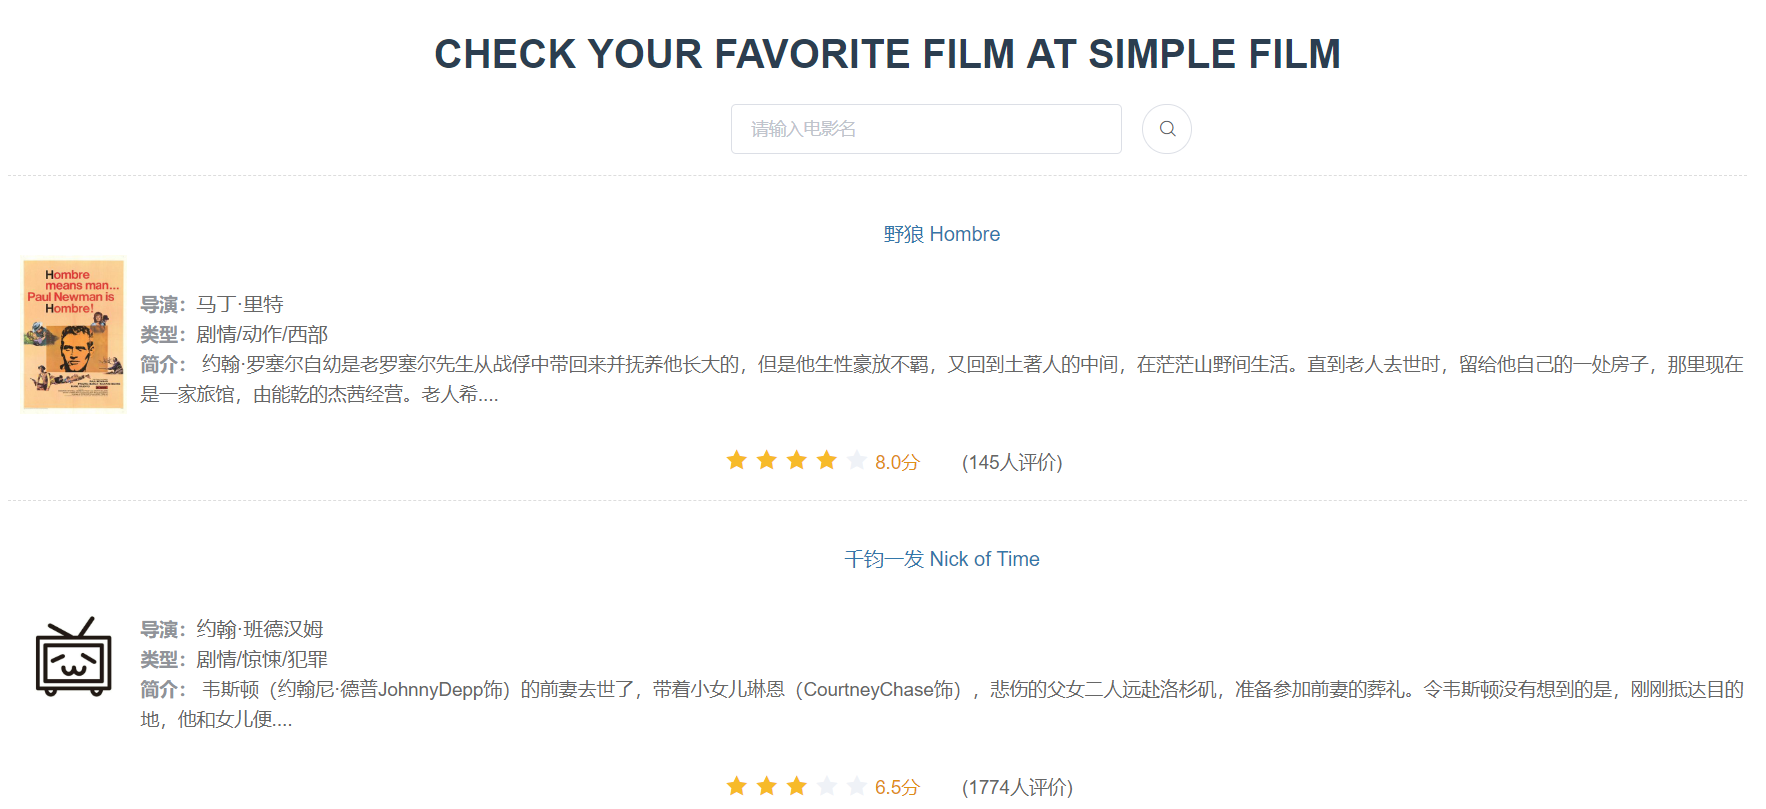
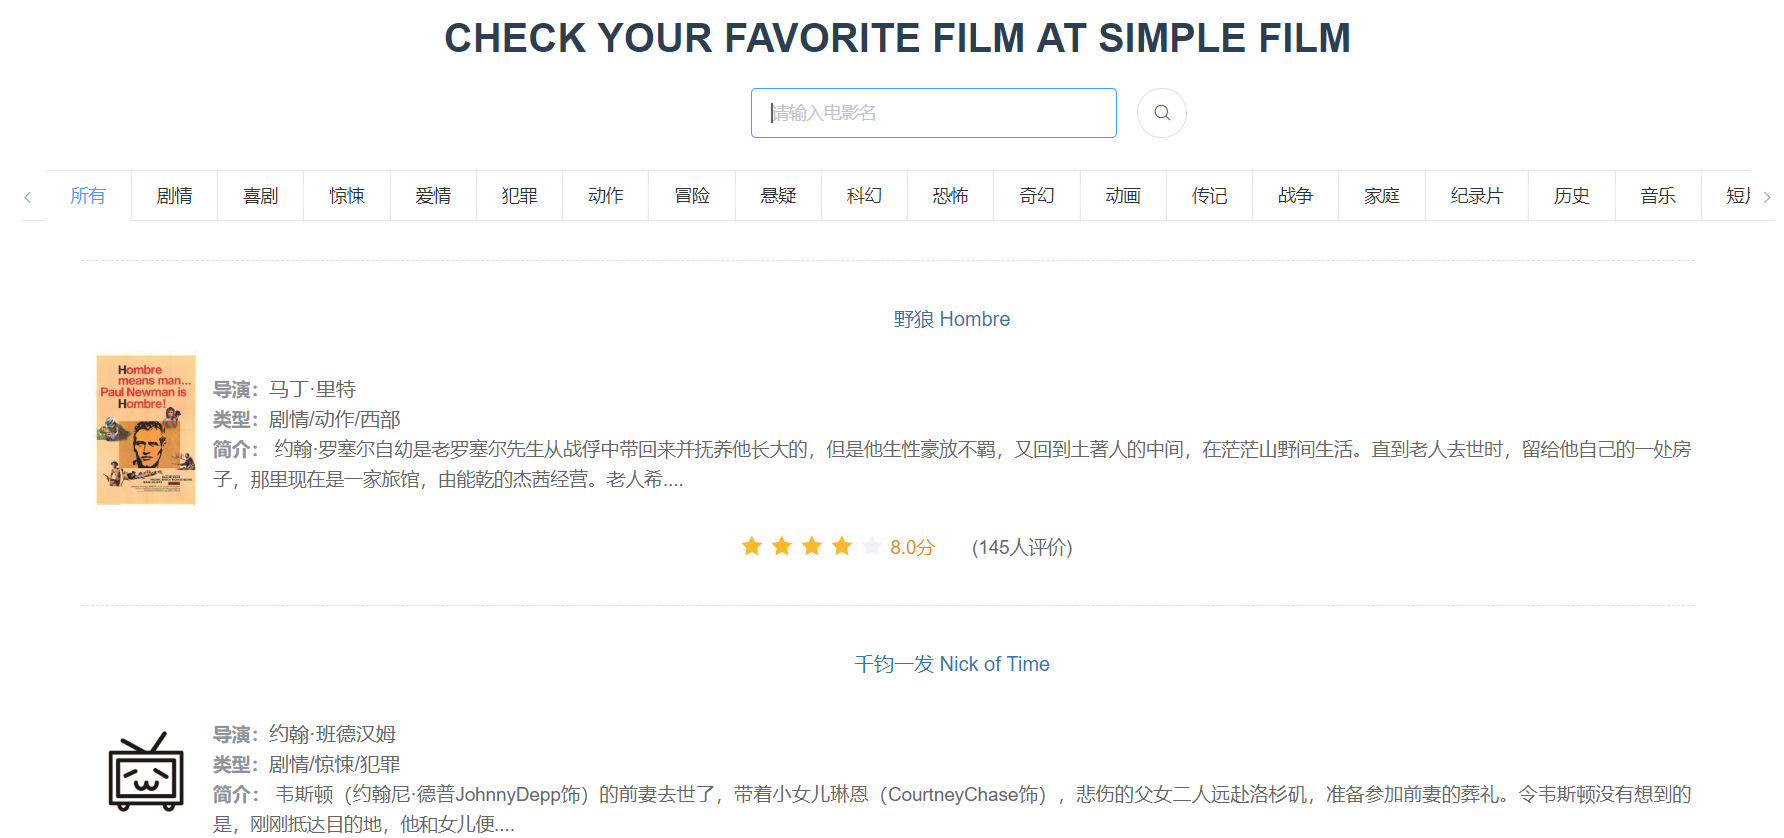
修改readme

diff --git a/src/components/Films.vue b/src/components/Films.vue
@@ -157,7 +157,14 @@ export default {
       //console.log(JSON.parse(this.films[1]).aka[0].indexOf('要命的决定'))
       //console.log(JSON.parse(this.films[1]).aka[0])
       if (!this.filmTitle) {
-        return;
+        this.activeName = "0";
+        this.total = this.films.length;
+        this.currentPage = 1;
+        this.films_genre = this.films;
+        this.currentFilms = this.films_genre.slice(
+          10 * (this.currentPage - 1),
+          10 * this.currentPage
+        );
       }
       var searchResult = [];
       var input = this.filmTitle.trim().toUpperCase();
@@ -194,9 +201,9 @@ export default {
     changeGenre(tab, event) {
       this.activeName = tab.index;
       //如果点到了所有
-      if (tab.index == 0) {
+      if (tab.index == "0") {
         //重新设置页面参数和电影参数为全体films
-        this.film_genre = this.films;
+        this.films_genre = this.films;
         this.currentPage = 1;
         this.currentFilms = this.films_genre.slice(
           10 * (this.currentPage - 1),

diff --git a/README.md b/README.md
@@ -15,7 +15,7 @@
 
 ## 分页概要
 
-使用element-ui评分组件
+使用element-ui评分组件 + 自渲染评分
 
 <img src=".\imgs\img1.PNG">
 
@@ -23,7 +23,7 @@
 
 ## 电影名搜索
 
-包含别名，输入关键字，**按回车或者点击搜索按钮**，即可查找，分页组件根据返回结果数实时变化。
+包含别名，输入关键字，**按回车或者点击搜索按钮**，即可查找，分页组件根据返回结果数实时变化，类别标签跳至所有。若搜索输入为空，默认页面重置数据，显示所有类别第一页。
 
 <img src=".\imgs\img2.png">
 
@@ -33,9 +33,11 @@
 
 ## 电影详情
 
+点击imdb可跳转前往。点击返回，前一页面数据状态不变
+
 <img src=".\imgs\img4.png">
 
-点击返回，前一页面数据状态不变
+
 
 
 
@@ -45,7 +47,7 @@
 
 页面创建时，按照各类别逆序渲染生成标签页栏，切换后分页组件实时变化。
 
-
+<img src=".\imgs\img5.PNG">
 
 
 
